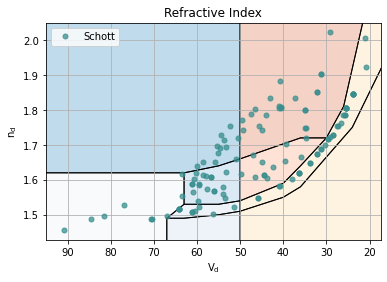
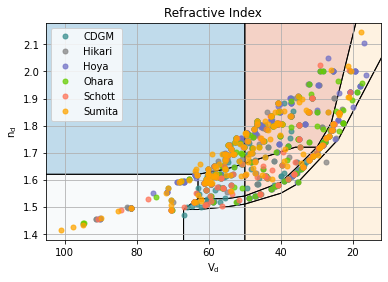
make sure all of the glass catalogs are included on the glass map.

diff --git a/opticalglass/glassmap.py b/opticalglass/glassmap.py
@@ -41,7 +41,11 @@ class GlassMapDB():
         :mod:`~.glassfactory`, _catalog_list.
         """
         if len(args) == 0:
-            args = (gf._catalog_list,)
+            # get a full list of catalogs if needed
+            if len(gf._catalog_list) < len(gf._cat_names):
+                args = (gf._cat_names, )
+            else:
+                args = (gf._catalog_list,)
 
         self.catalogs = []
         for arg in args:

diff --git a/docs/OG_Quickstart/OG_Quickstart.rst b/docs/OG_Quickstart/OG_Quickstart.rst
@@ -137,7 +137,7 @@ You can get all of the refractive indices for a NumPy array of wavelengths using
 
 .. parsed-literal::
 
-    [<matplotlib.lines.Line2D at 0x7ff2a1b52400>]
+    [<matplotlib.lines.Line2D at 0x7fe050b41130>]
 
 
 
@@ -159,7 +159,7 @@ You can get all of the refractive indices for a NumPy array of wavelengths using
 
 .. parsed-literal::
 
-    [<matplotlib.lines.Line2D at 0x7ff280cd1df0>]
+    [<matplotlib.lines.Line2D at 0x7fe048eb3d60>]
 
 
 
@@ -254,7 +254,7 @@ Plot Transmission vs Wavelength
 
 .. parsed-literal::
 
-    [<matplotlib.lines.Line2D at 0x7ff2a1efe6a0>]
+    [<matplotlib.lines.Line2D at 0x7fe029d127f0>]
 
 
 
